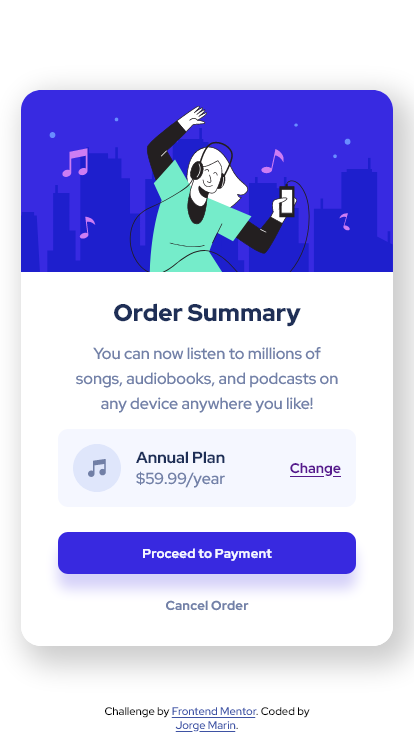
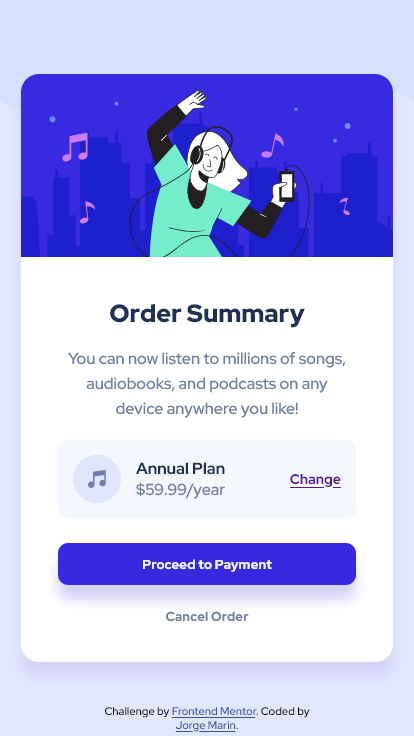
markup and styles fixed

diff --git a/styles.css b/styles.css
@@ -20,13 +20,18 @@ html {
 body {
   font-size: 1.6rem;
   font-family: 'Red Hat Display', sans-serif;
-  height: 100vh;
+  min-height: 100vh;
+  background-image: url('../images/pattern-background-desktop.svg');
+  background-repeat: no-repeat;
+  background-size: contain;
+  background-color: #e0e8ff;
   display: flex;
   justify-content: center;
   align-items: center;
 }
 
-.img-girl {
+.card__top__hero {
+  display: block;
   max-width: 100%;
 }
 
@@ -34,33 +39,36 @@ body {
   background-color: #fff;
   width: 90%;
   max-width: 38rem;
-  border-radius: 2rem;
+  border-radius: 1.8rem;
   overflow: hidden;
-  box-shadow: 10px 11px 28px 8px rgba(0,0,0,0.2);
+  box-shadow: 0px 15px 12px hsl(245, 75%, 90%);
 }
 
-.card__wrapper-body {
+.card__bottom {
   width: 80%;
-  padding: 2rem 0;
+  padding: 2.5rem 0;
   margin: 0 auto;
 }
 
-.wrapper-text {
+.card__bottom__text {
   text-align: center;
 }
 
-.wrapper-text__title {
+.card__bottom__text__title {
+  font-size: 2.5rem;
   font-weight: 900;
   color: var(--dark-blue);
+  margin: 1.5rem 0 .2rem 0;
 }
 
-.wrapper-text__paragraph {
+.card__bottom__text__paragraph {
   line-height: 2.5rem;
   color: var(--desaturated-blue);
-  padding: 1.3rem;
+  padding: 1.4rem 0.4rem;
+  margin-bottom: .5rem;
 }
 
-.plan-container {
+.card__bottom__plan {
   background-color: var(--very-pale-blue);
   display: flex;
   justify-content: center;
@@ -70,26 +78,27 @@ body {
   margin-bottom: 2.5rem;
 }
 
-.plan-type {
+.card__bottom__plan__text {
   padding-left: 1.5rem;
 }
 
-.plan-type__name {
+.card__bottom__plan__text__name {
   font-weight: 700;
   color: var(--dark-blue);
 }
 
-.plan-type__price {
+.card__bottom__plan__text__price {
   color: var(--desaturated-blue);
 }
 
-.plan-container a {
+.card__bottom__plan a {
   font-size: 1.4rem;
   text-decoration: underline;
   font-weight: 700;
+  transition: all 0.2s;
 }
 
-.plan-container a:hover {
+.card__bottom__plan a:hover {
   text-decoration: none;
   color: var(--desaturated-blue);
 }
@@ -103,6 +112,7 @@ body {
   font-weight: 700;
   font-family: inherit;
   cursor: pointer;
+  transition: all 0.2s;
 }
 
 .proceed-btn {
@@ -124,9 +134,6 @@ body {
 .cancel-btn:hover {
   color: var(--dark-blue);
 }
-
-
-
 
 .attribution {
   position: absolute;

diff --git a/index.html b/index.html
@@ -21,47 +21,48 @@
     <link rel="stylesheet" href="styles.css" />
   </head>
   <body>
-    <div class="card">
-      <div class="card__wrapper-head">
+    <main class="card">
+      <div class="card__top">
         <img
           src="images/illustration-hero.svg"
           alt="girl listening to music"
-          class="img-girl"
+          class="card__top__hero"
         />
       </div>
 
-      <div class="card__wrapper-body">
-        <div class="wrapper-text">
-          <h2 class="wrapper-text__title">Order Summary</h2>
-          <p class="wrapper-text__paragraph">
+      <div class="card__bottom">
+        <div class="card__bottom__text">
+          <h1 class="card__bottom__text__title">Order Summary</h1>
+          <p class="card__bottom__text__paragraph">
             You can now listen to millions of songs, audiobooks, and podcasts on
             any device anywhere you like!
           </p>
         </div>
 
-        <div class="plan-container">
+        <div class="card__bottom__plan">
           <img
             src="images/icon-music.svg"
             alt="music icon"
-            class="music-icon"
+            class="card__bottom__plan__icon"
+            aria-hidden="true"
           />
-          <div class="plan-type">
-            <span class="plan-type__name">Annual Plan</span>
-            <span class="plan-type__price">$59.99/year</span>
+          <div class="card__bottom__plan__text">
+            <span class="card__bottom__plan__text__name">Annual Plan</span>
+            <span class="card__bottom__plan__text__price">$59.99/year</span>
           </div>
           <a href="#">Change</a>
         </div>
 
-        <div class="buttons-container">
+        <div class="card__bottom__plan__buttons">
           <button class="btn proceed-btn">Proceed to Payment</button>
           <button class="btn cancel-btn">Cancel Order</button>
         </div>
       </div>
-    </div>
+    </main>
 
-    <div class="attribution">
+    <footer class="attribution">
       Challenge by <a href="https://www.frontendmentor.io?ref=challenge" target="_blank">Frontend Mentor</a>.
       Coded by <a href="#">Jorge Marin</a>.
-    </div>
+    </footer>
   </body>
 </html>
